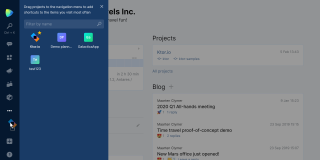
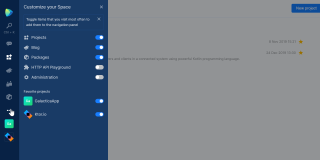
Space Guide - Update tip "project-favorites-sidebar"

diff --git a/sites/space-guide/contents/tips/project-favorites-sidebar/index.md b/sites/space-guide/contents/tips/project-favorites-sidebar/index.md
@@ -1,7 +1,7 @@
 ---
 type: tip
-date: 2020-02-12
-title: Favorite projects
+date: 2020-03-10
+title: Favorite projects and sidebar customization
 topics: [teams, personal, projects, code]
 author: maartenba
 subtitle: Favorite often-used projects and pin them to the sidebar.
@@ -9,13 +9,13 @@ thumbnail: ./thumbnail.png
 cardThumbnail: ./card.png
 shortVideo:
   poster: ./preview.png
-  url: https://youtu.be/TaWvvQzvwpU
+  url: https://youtu.be/Z44aW_q-iCY
 leadin: |
-    **Navigate to projects much faster!**
+    **Customize the sidebar &amp; navigate to projects faster!**
     
-    Have a project you have to access regularly? Mark it as a favorite so navigating to it from the sidebar becomes easier.
+    Have a project you have to access regularly? Mark it as a favorite so navigating to it from the sidebar becomes easier. Toggle projects and other icons to customize your Space.
     
-    Need even faster access? Drag the project to the sidebar and get a quick access menu to the project's issues, checklists and code reviews. Repositories get a direct link, too!
+    Pinned projects show a quick access menu on hover, letting us navigate to the project's issues, checklists and code reviews. Repositories get a direct link, too!
     
     [More about finding projects in Space...](https://www.jetbrains.com/help/space/find-a-project.html)
     
